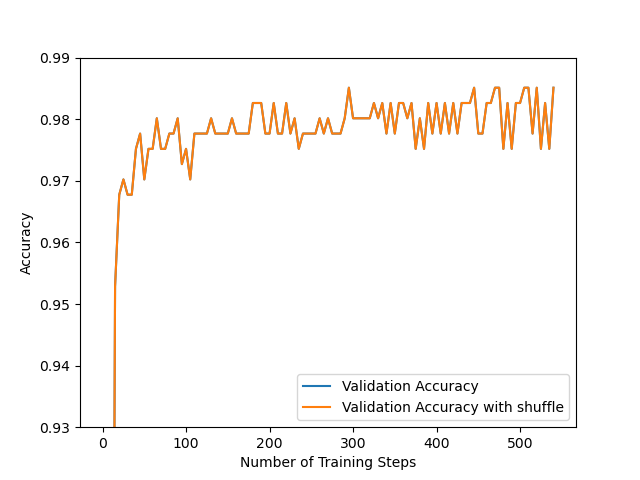
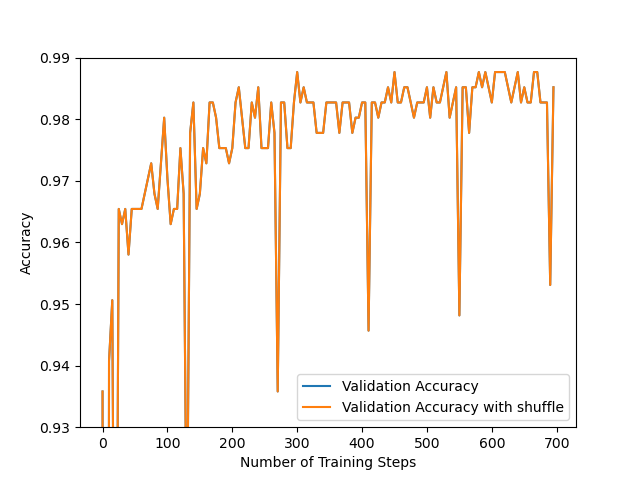
Not use stochastic in 2b

diff --git a/assignment1/task2.py b/assignment1/task2.py
@@ -77,7 +77,7 @@ if __name__ == "__main__":
     # Load dataset
     category1, category2 = 2, 3
     X_train, Y_train, X_val, Y_val = utils.load_binary_dataset(
-        category1, category2)
+        category1, category2, sample_stochastic=False)
 
     X_train = pre_process_images(X_train)
     X_val = pre_process_images(X_val)
